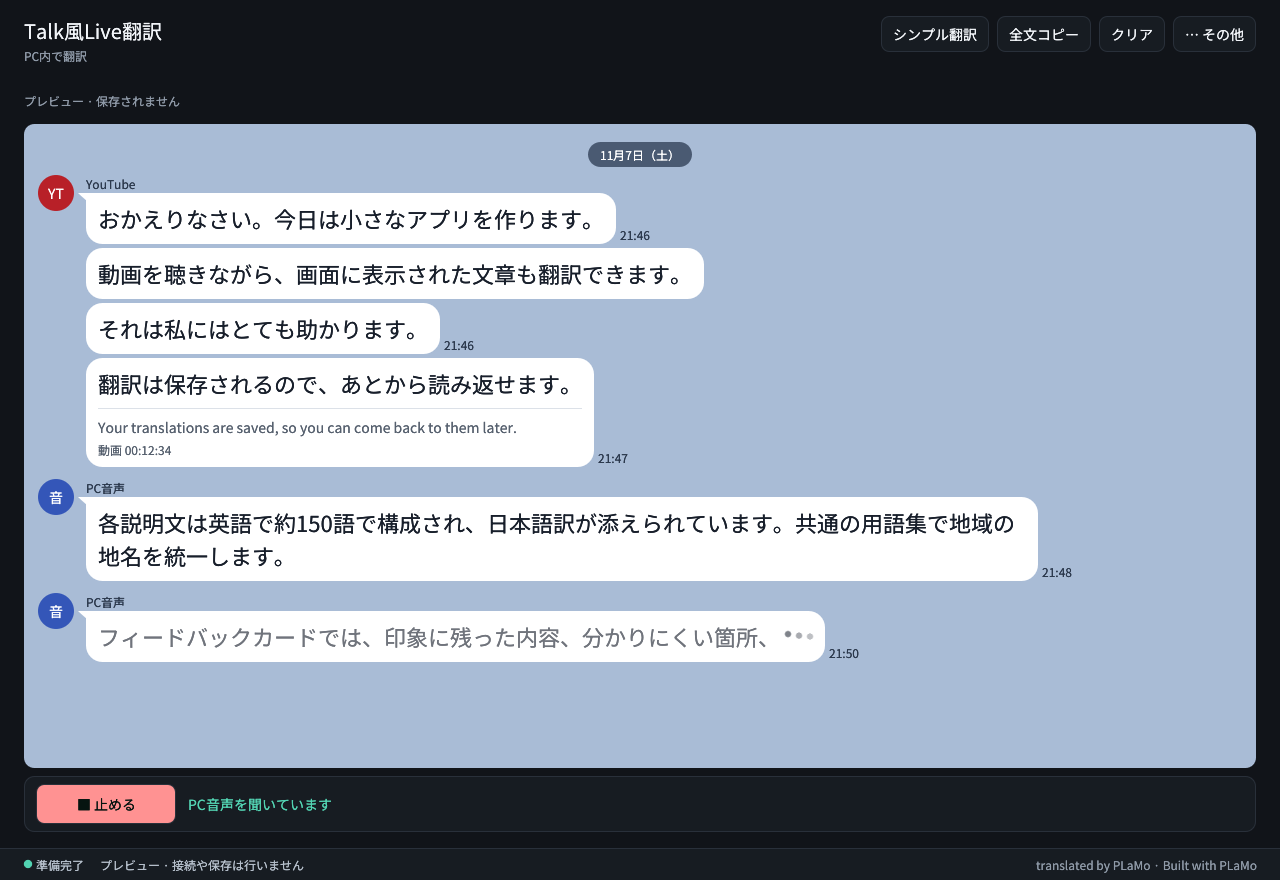
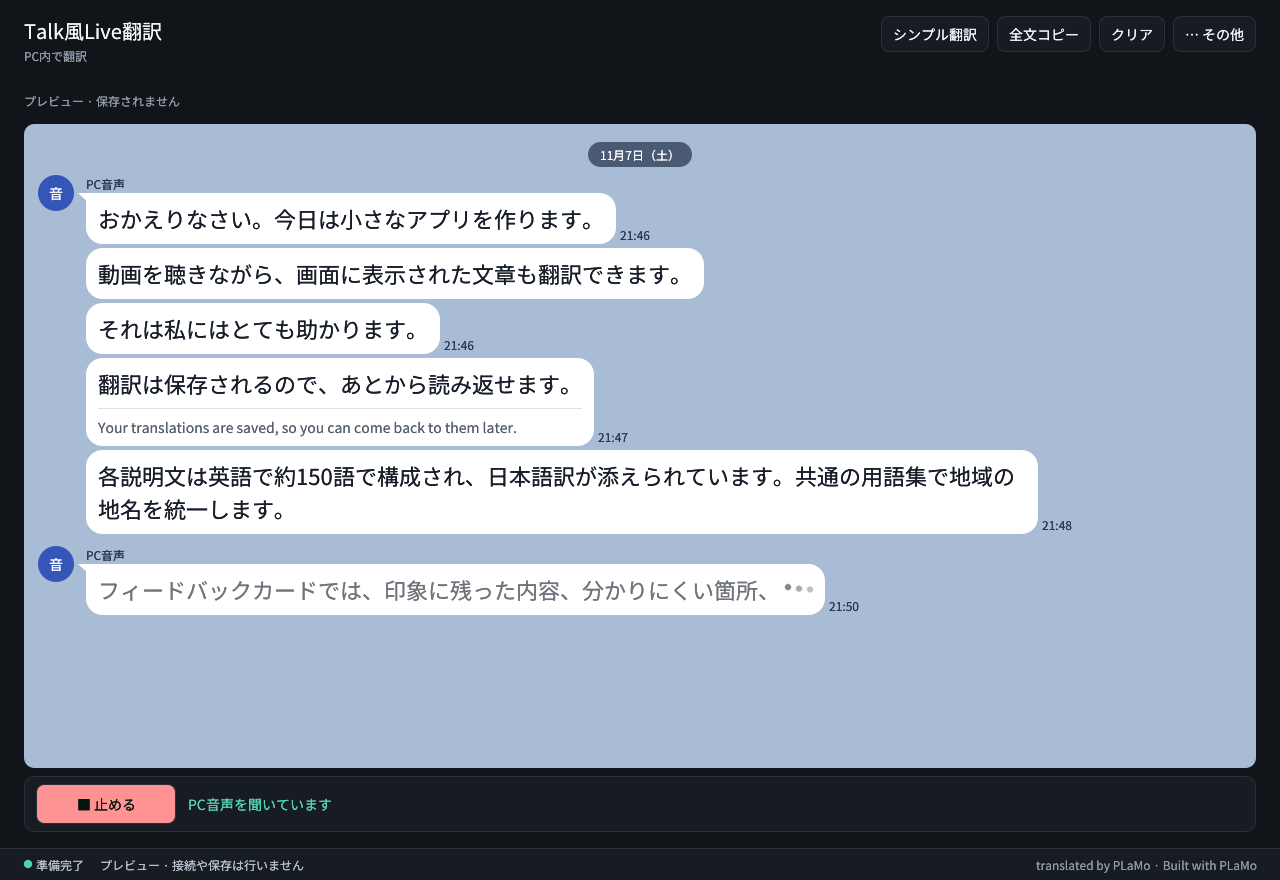
READMEの最初の画像を、PC音声だけのチャットにする
1.0.0 の入力は PC音声から始まり、YouTube字幕はオプションです。いままでの画像は、上の吹き出しが YouTube字幕でした。プレビューに、同じ会話を PC音声だけで出す場面（03-live-pc-audio-only）を足し、README の最初の画像にします。ほかの画面の画像は変わりません。

Changed region(s): [[0.0312, 0.4909, 0.8438, 0.767], [0.0312, 0.1841, 0.0938, 0.2455]]

diff --git a/src/main.rs b/src/main.rs
@@ -2132,6 +2132,17 @@ fn demo_talk(rows: usize) -> Vec<Row> {
     talk
 }
 
+/// The demo talk heard as PC audio alone, the input the app starts with: the
+/// picture at the top of the README.
+fn demo_pc_audio_talk(rows: usize) -> Vec<Row> {
+    let mut talk = demo_talk(rows);
+    for row in &mut talk {
+        row.record.kind = "音声".into();
+        row.record.video_id.clear();
+    }
+    talk
+}
+
 /// The part still forming in the subtitle window previews, with its original:
 /// long, two lines at the smallest window, and one line at the largest text.
 const FORMING_LONG: (&str, &str) = (
@@ -2804,6 +2815,13 @@ fn render_demo_views(folder: &Path) -> Result<()> {
                 Listening::Both,
             ),
             (
+                "03-live-pc-audio-only",
+                Tab::Live,
+                true,
+                Overlay::Nothing,
+                Listening::PcAudio,
+            ),
+            (
                 "04-settings",
                 Tab::Settings,
                 false,
@@ -3000,7 +3018,11 @@ fn render_demo_views(folder: &Path) -> Result<()> {
                 app.current_live_id = Some(3);
             }
             if tab == Tab::Live {
-                app.rows = demo_talk(5);
+                app.rows = if name.ends_with("-pc-audio-only") {
+                    demo_pc_audio_talk(5)
+                } else {
+                    demo_talk(5)
+                };
                 app.current_live_id = Some(5);
                 app.live_chat.toggle_original(3, 0);
             }

diff --git a/README.md b/README.md
@@ -10,7 +10,7 @@ Nemotron と PLaMo をこのPCで動かし、PCで再生中の英語の音声を
 
 **[Windows版のダウンロード](https://github.com/yebisu0529-ship-it/talk-style-live-translation/releases)** · **1.0.0**
 
-![チャットの画面。YouTube字幕とPC音声の訳が、吹き出しになって上から並ぶ](assets/screenshots/live.png)
+![チャットの画面。PCで再生中の英語の訳が、吹き出しになって上から並ぶ](assets/screenshots/live.png)
 
 ## できること
 
